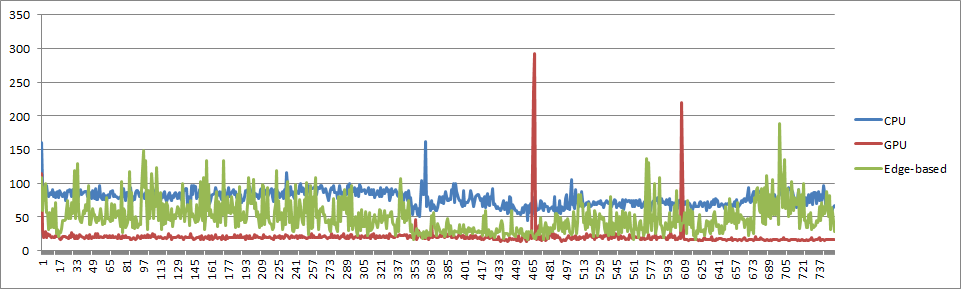
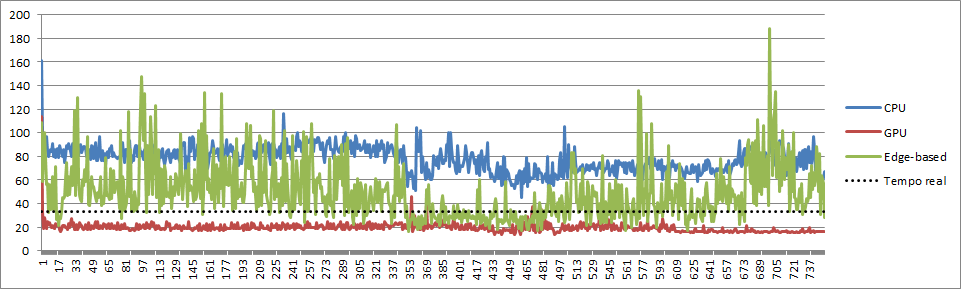
Melhorias no capítulo de resultados

Changed region(s): [[0.0, 0.1246, 0.999, 0.8408], [0.0624, 0.872, 0.8741, 0.9654], [0.0, 0.0311, 0.0312, 0.0623]]

diff --git a/monografia/chapter4.tex b/monografia/chapter4.tex
@@ -47,12 +47,12 @@ Foi notado nos experimentos que o algoritmo não apresenta melhora significativa
 
 \section{Desempenho}
 
-No teste de desempenho é avaliado o tempo, em milésimos de segundo, o qual o algoritmo foi executado. Esse tipo de teste depende bastante da máquina utilizada, mas é importante discuti-lo para se fazer uma comparação relativa entre as técnicas apresentadas. O vídeo de entrada utilizado nos três testes é uma sequência de pouco mais de 700 \emph{frames} de um cubo parado enquanto que a câmera faz alguns movimentos. Foi feito o teste utilizando os algoritmos de múltiplas poses de câmera rodando tanto em GPU quanto em CPU, como também foi utilizado um algoritmo hipótese única de câmera para efeitos de comparação. A \figref{performance} mostra um gráfico comparativo de performance das três simulações. O eixo horizontal mostra os \emph{frames} do vídeo e o eixo vertical mostra o tempo de execução de cada \emph{frame}. Como é um teste de tempo, quanto menor o valor, melhor o resultado. Deseja-se executar o algoritmo em um tempo menor que 33 milésimos de segundo, por cada \emph{frame}, para que a execução seja considerada em tempo real.
+No teste de desempenho é avaliado o tempo, em milésimos de segundo, no qual o algoritmo foi executado. Esse tipo de teste depende bastante da máquina utilizada, mas é importante discuti-lo para se fazer uma comparação relativa entre as técnicas apresentadas. O vídeo de entrada utilizado nos três testes é uma sequência de 751 \emph{frames} de um cubo parado enquanto que a câmera faz alguns movimentos. Foi feito o teste utilizando os algoritmos de múltiplas poses de câmera rodando tanto em GPU quanto em CPU, como também foi utilizado um algoritmo de hipótese única de câmera para efeitos de comparação. A \figref{performance} mostra um gráfico comparativo de desempenho das três simulações. O eixo horizontal mostra os \emph{frames} do vídeo e o eixo vertical mostra o tempo de execução de cada \emph{frame} em milissegundos. Como é um teste de tempo de execução, quanto menor o valor, melhor o resultado. Deseja-se executar o algoritmo em um tempo menor que 33 milésimos de segundo, por \emph{frame}, para que a execução seja considerada em tempo real.
 
 \begin{figure}[!ht]
 \centering\includegraphics[width=\textwidth]{monografia/performance}
-\caption{Gráfico comparativo da performance do algoritmo em CPU e em GPU. Também é mostrado um rastreamento sem utilizar o algoritmo para efeitos de comparação.}
+\caption{Gráfico comparativo da performance do algoritmo em CPU e em GPU. Também é mostrado um rastreamento sem utilizar o algoritmo para efeitos de comparação. A linha pontilhada mostra o limite para que a execução seja considerada em tempo real.}
 \label{performance}
 \end{figure}
 
-A \figref{performance} mostra que o uso de múltiplas hipóteses de pose juntamente com a clusterização \emph{k-means} aumenta bastante o tempo de execução do algoritmo. Apesar disso, o mesmo algoritmo implementado em CUDA apresenta resultados melhores do que a implementação em CPU da técnica de pose única.
+A \figref{performance} mostra um gráfico comparativo do desempenho do algoritmo executado tanto em CPU (linha azul) quanto em GPU (linha vermelha). Para efeitos de comparação com técnicas já existentes, também foi feito o mesmo teste com uma abordagem baseada em aresta tradicional (linha verde). O eixo vertical indica o tempo de execução do rastreamento em cada \emph{frame} (eixo horizontal) e a linha preta pontilhada é o limiar para que a execução seja considerada em tempo real. Como essa é uma medida de tempo, quanto menor o valor do eixo vertical, melhor o desempenho. No gráfico pode-se observar que o uso de múltiplas hipóteses de pose juntamente com a clusterização \emph{k-means} aumenta bastante o tempo de execução do algoritmo. Apesar disso, o mesmo algoritmo implementado em CUDA apresenta resultados melhores do que a implementação em CPU da técnica de pose única, sendo inclusive o único cuja execução do experimento pode ser considerada em tempo real, pois a maior parte dos \emph{frames} é executado em menos de 33 milissegundos (linha preta do gráfico).
